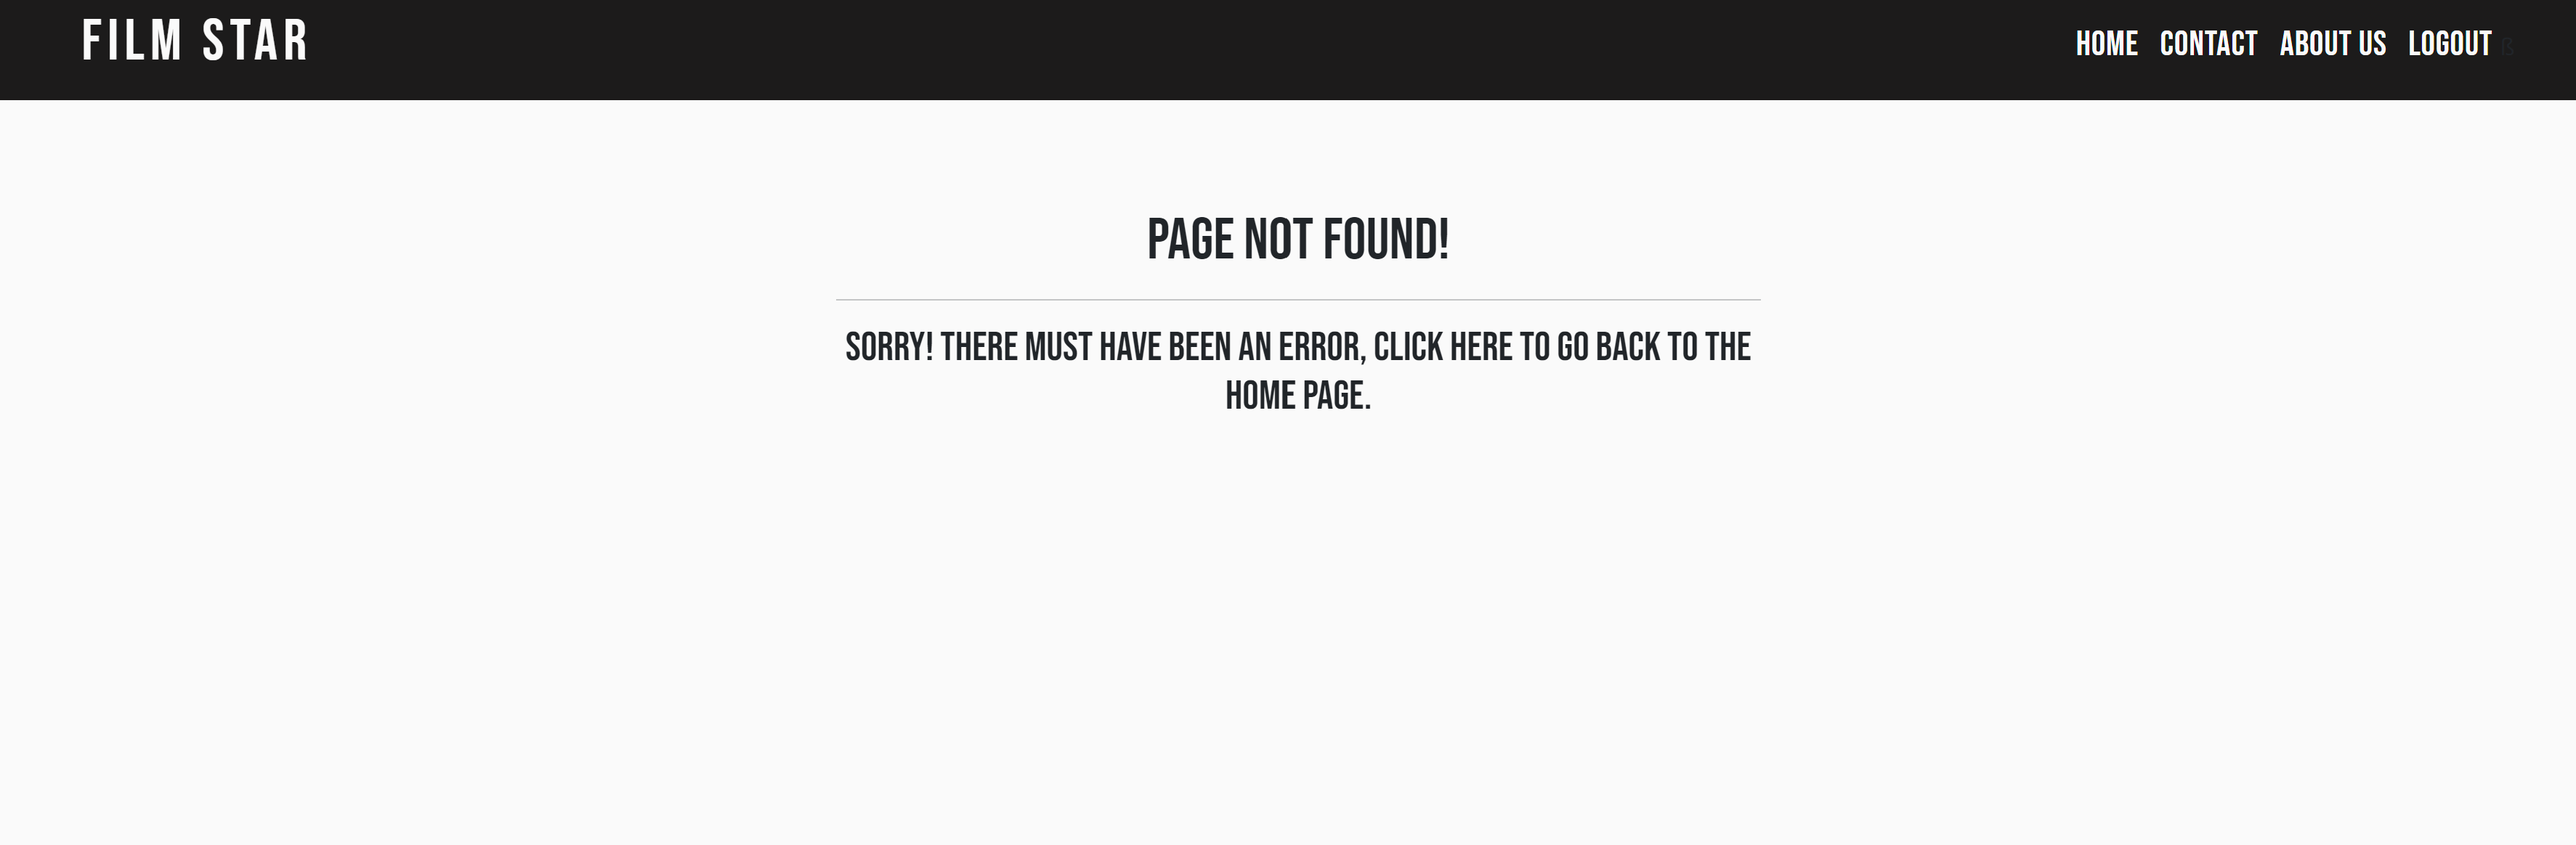
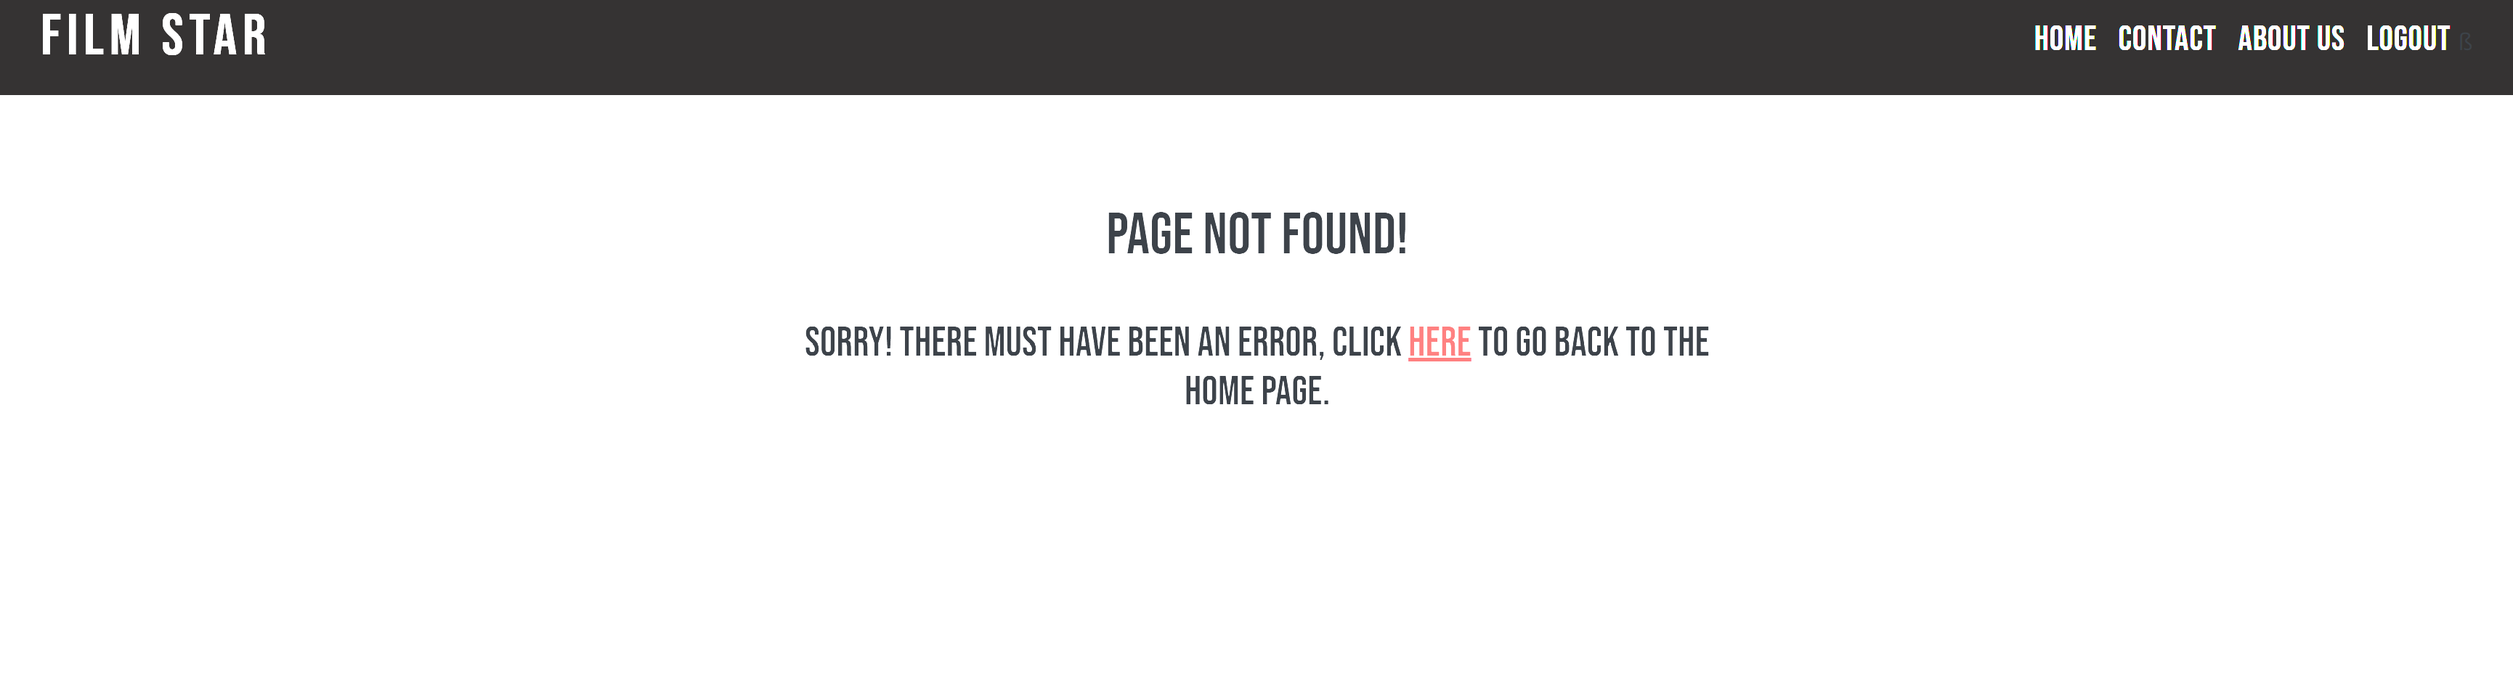
Final deployment

Changed region(s): [[0.0, 0.0, 1.0, 0.153], [0.3121, 0.2447, 0.6867, 0.5506], [0.4682, 0.5506, 0.5306, 0.6118]]

diff --git a/README.md b/README.md
@@ -159,7 +159,7 @@ __Navigation__:
 
 * The navigation feature is present on all pages of this website, and is fixed to the top of the screen. 
 * The logo is on the left-hand side, whilst the links are on the right. All links and the logo have a hover effect, whereby a line expands below the links, indicating where the mouse is hovered. This gives the website a much better aesthetic.
-* If the user enters an invalid url, they are shown an error 404 page not found, as seen below:
+* If the user enters an invalid url, they are shown an error 404 page not found, as seen below. By clicking "here" they are redirected to the home page.
 
 ![Page Not Found](static/media/404.png)
 
@@ -546,6 +546,8 @@ Favicon:
 ### Code <a name="code"></a>
 
 * A large part of the code used on this project was used and inspired from Code Institute's "I think Therefore I Blog" tutorial, to build the skeleton base. Some of the borrowed code has been customised by me to fit this project. 
+
+* The code to build the front end CRUD functionality in this project was borrowed from Meldissa's 'Dessert Island' project. 
 
 * To build the contact form and pages, code was borrowed from [twilio](https://www.twilio.com/blog/build-contact-form-python-django-twilio-sendgrid) to assist in the project. 
 
